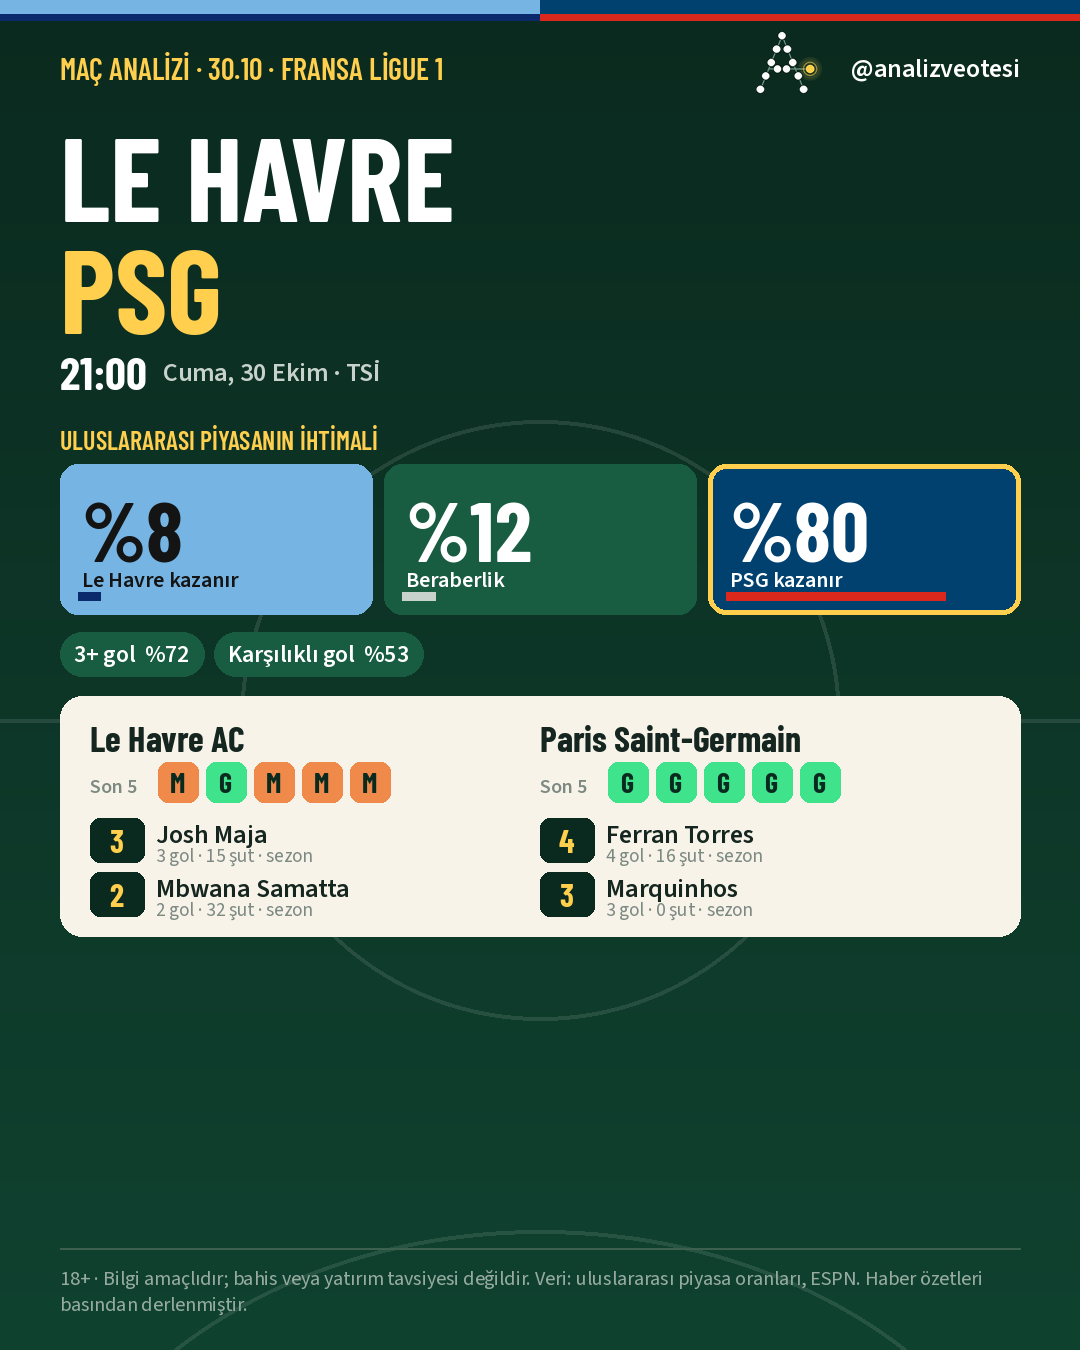
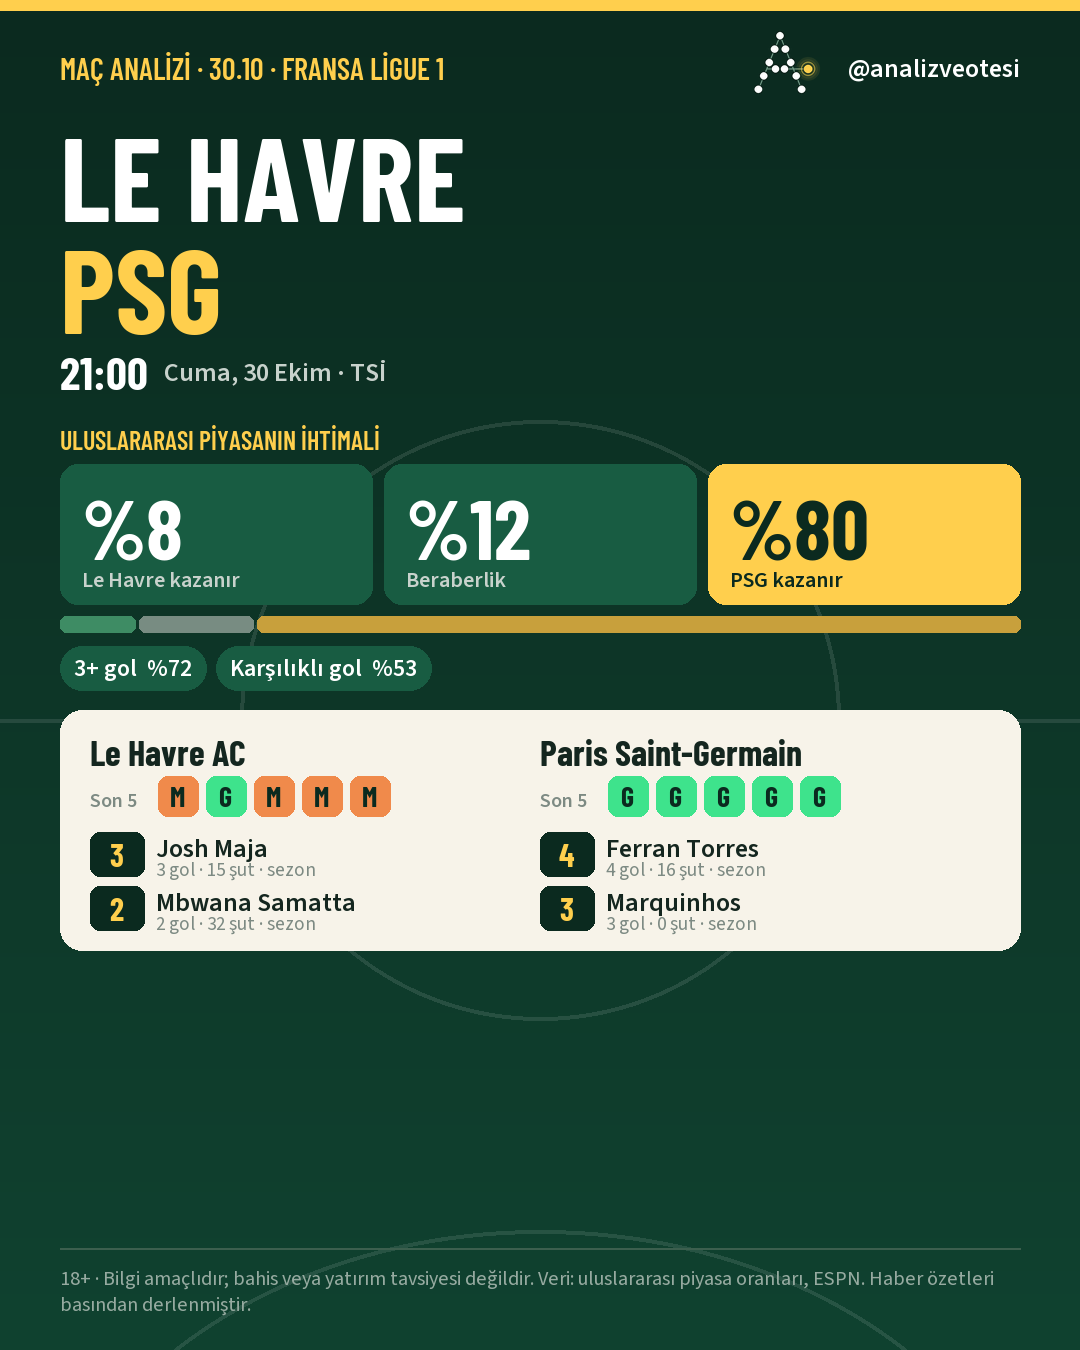
Kartlar: ihtimal kutuları sabit renk (en yüksek sarı) + oranlı şerit; takım renk şeridi kaldırıldı

diff --git a/docs/index.html b/docs/index.html
@@ -219,7 +219,7 @@ details.match summary{grid-template-columns:1fr auto}details.match summary time{
 
 <section class="board">
   <h1 class="verdict">Şu an oynanacak<br><em>fırsat yok.</em></h1>
-  <ul class="pills"><li><span class="pulse"></span>Nesine <b>0 dk önce</b> kontrol edildi</li><li>Dünya piyasası <b>3 saat önce</b> · gözcü açılınca tazelenir</li><li class="shadow">Gölge test · para oynanmıyor, her fırsat puanlanıyor</li></ul>
+  <ul class="pills"><li><span class="pulse"></span>Nesine <b>7 dk önce</b> kontrol edildi</li><li>Dünya piyasası <b>3 saat önce</b> · gözcü açılınca tazelenir</li><li class="shadow">Gölge test · para oynanmıyor, her fırsat puanlanıyor</li></ul>
   
 <ul class="facts">
   <li><div class="n">57</div><div class="l">yaklaşan maç takipte</div></li>
@@ -246,7 +246,7 @@ details.match summary{grid-template-columns:1fr auto}details.match summary time{
 <div class="empty"><b>Hiçbir maçta Nesine, dünya piyasasından yüksek oran vermiyor.</b> Bu normaldir; fırsat haber çıkıp dünya piyasası hareket ettiğinde, Nesine geç kaldığında doğar. En yakını <b>Barcelona – Alaves</b>, kg yok · en az bir takım gol atamaz: Nesine 1.70 veriyor, adil oran 1.76; yani hâlâ %3.2 geride.</div>
 <h3>Eşiğe en yakın bahisler</h3>
 <p class="lead">Çubuk ne kadar sağdaysa Nesine o kadar cömert; koyu çizgi +%3 eşiği. Çoğunun solda kalması Nesine'nin normal hâlidir.</p>
-<div class="card"><ul class="list"><li class="row "><div class="m"><div class="t">Barcelona – Alaves</div><div class="d">KG Yok · en az bir takım gol atamaz · Nesine <code>1.70</code> · adil <code>1.76</code></div></div><div class="meter near"><div class="bar" style="--w:65.9%"></div><div class="tick"></div></div><div class="v">-3.2%</div></li><li class="row "><div class="m"><div class="t">Bayern Münih – B. Dortmund</div><div class="d">MS X · beraberlik · Nesine <code>5.54</code> · adil <code>6.01</code></div></div><div class="meter "><div class="bar" style="--w:52.2%"></div><div class="tick"></div></div><div class="v">-7.8%</div></li><li class="row "><div class="m"><div class="t">Konyaspor – Galatasaray</div><div class="d">MS 1 · ev sahibi kazanır · Nesine <code>4.78</code> · adil <code>5.22</code></div></div><div class="meter "><div class="bar" style="--w:50.2%"></div><div class="tick"></div></div><div class="v">-8.4%</div></li><li class="row "><div class="m"><div class="t">Santander – Real Madrid</div><div class="d">KG Yok · en az bir takım gol atamaz · Nesine <code>2.20</code> · adil <code>2.43</code></div></div><div class="meter "><div class="bar" style="--w:47.5%"></div><div class="tick"></div></div><div class="v">-9.3%</div></li><li class="row "><div class="m"><div class="t">Levante – Atl Madrid</div><div class="d">MS 1 · ev sahibi kazanır · Nesine <code>4.70</code> · adil <code>5.21</code></div></div><div class="meter "><div class="bar" style="--w:46.3%"></div><div class="tick"></div></div><div class="v">-9.7%</div></li><li class="row "><div class="m"><div class="t">Lille – RC Lens</div><div class="d">2.5 Üst · 3 veya daha fazla gol · Nesine <code>1.59</code> · adil <code>1.77</code></div></div><div class="meter "><div class="bar" style="--w:45.7%"></div><div class="tick"></div></div><div class="v">-9.9%</div></li><li class="row "><div class="m"><div class="t">Schalke 04 – Leipzig</div><div class="d">MS X · beraberlik · Nesine <code>3.53</code> · adil <code>3.93</code></div></div><div class="meter "><div class="bar" style="--w:45.2%"></div><div class="tick"></div></div><div class="v">-10.1%</div></li><li class="row "><div class="m"><div class="t">Vallecano – Celta Vigo</div><div class="d">KG Yok · en az bir takım gol atamaz · Nesine <code>1.72</code> · adil <code>1.93</code></div></div><div class="meter "><div class="bar" style="--w:42.2%"></div><div class="tick"></div></div><div class="v">-11.1%</div></li><li class="row "><div class="m"><div class="t">Elche – Valencia</div><div class="d">KG Yok · en az bir takım gol atamaz · Nesine <code>1.85</code> · adil <code>2.09</code></div></div><div class="meter "><div class="bar" style="--w:41.6%"></div><div class="tick"></div></div><div class="v">-11.3%</div></li><li class="row "><div class="m"><div class="t">Juventus – Napoli</div><div class="d">KG Yok · en az bir takım gol atamaz · Nesine <code>1.84</code> · adil <code>2.07</code></div></div><div class="meter "><div class="bar" style="--w:41.5%"></div><div class="tick"></div></div><div class="v">-11.3%</div></li><li class="row "><div class="m"><div class="t">Trabzonspor – Gaziantep FK</div><div class="d">MS 1 · ev sahibi kazanır · Nesine <code>1.21</code> · adil <code>1.37</code></div></div><div class="meter "><div class="bar" style="--w:40.4%"></div><div class="tick"></div></div><div class="v">-11.7%</div></li><li class="row "><div class="m"><div class="t">Le Havre – PSG</div><div class="d">MS 2 · deplasman kazanır · Nesine <code>1.11</code> · adil <code>1.26</code></div></div><div class="meter "><div class="bar" style="--w:40.2%"></div><div class="tick"></div></div><div class="v">-11.8%</div></li></ul>
+<div class="card"><ul class="list"><li class="row "><div class="m"><div class="t">Barcelona – Alaves</div><div class="d">KG Yok · en az bir takım gol atamaz · Nesine <code>1.70</code> · adil <code>1.76</code></div></div><div class="meter near"><div class="bar" style="--w:65.9%"></div><div class="tick"></div></div><div class="v">-3.2%</div></li><li class="row "><div class="m"><div class="t">Bayern Münih – B. Dortmund</div><div class="d">MS X · beraberlik · Nesine <code>5.54</code> · adil <code>6.01</code></div></div><div class="meter "><div class="bar" style="--w:52.2%"></div><div class="tick"></div></div><div class="v">-7.8%</div></li><li class="row "><div class="m"><div class="t">Konyaspor – Galatasaray</div><div class="d">MS 1 · ev sahibi kazanır · Nesine <code>4.78</code> · adil <code>5.22</code></div></div><div class="meter "><div class="bar" style="--w:50.2%"></div><div class="tick"></div></div><div class="v">-8.4%</div></li><li class="row "><div class="m"><div class="t">Levante – Atl Madrid</div><div class="d">MS 1 · ev sahibi kazanır · Nesine <code>4.70</code> · adil <code>5.21</code></div></div><div class="meter "><div class="bar" style="--w:46.3%"></div><div class="tick"></div></div><div class="v">-9.7%</div></li><li class="row "><div class="m"><div class="t">Santander – Real Madrid</div><div class="d">KG Yok · en az bir takım gol atamaz · Nesine <code>2.19</code> · adil <code>2.43</code></div></div><div class="meter "><div class="bar" style="--w:46.3%"></div><div class="tick"></div></div><div class="v">-9.7%</div></li><li class="row "><div class="m"><div class="t">Lille – RC Lens</div><div class="d">2.5 Üst · 3 veya daha fazla gol · Nesine <code>1.59</code> · adil <code>1.77</code></div></div><div class="meter "><div class="bar" style="--w:45.7%"></div><div class="tick"></div></div><div class="v">-9.9%</div></li><li class="row "><div class="m"><div class="t">Schalke 04 – Leipzig</div><div class="d">MS X · beraberlik · Nesine <code>3.53</code> · adil <code>3.93</code></div></div><div class="meter "><div class="bar" style="--w:45.2%"></div><div class="tick"></div></div><div class="v">-10.1%</div></li><li class="row "><div class="m"><div class="t">Vallecano – Celta Vigo</div><div class="d">KG Yok · en az bir takım gol atamaz · Nesine <code>1.72</code> · adil <code>1.93</code></div></div><div class="meter "><div class="bar" style="--w:42.2%"></div><div class="tick"></div></div><div class="v">-11.1%</div></li><li class="row "><div class="m"><div class="t">Elche – Valencia</div><div class="d">KG Yok · en az bir takım gol atamaz · Nesine <code>1.85</code> · adil <code>2.09</code></div></div><div class="meter "><div class="bar" style="--w:41.6%"></div><div class="tick"></div></div><div class="v">-11.3%</div></li><li class="row "><div class="m"><div class="t">Juventus – Napoli</div><div class="d">KG Yok · en az bir takım gol atamaz · Nesine <code>1.84</code> · adil <code>2.07</code></div></div><div class="meter "><div class="bar" style="--w:41.5%"></div><div class="tick"></div></div><div class="v">-11.3%</div></li><li class="row "><div class="m"><div class="t">Trabzonspor – Gaziantep FK</div><div class="d">MS 1 · ev sahibi kazanır · Nesine <code>1.21</code> · adil <code>1.37</code></div></div><div class="meter "><div class="bar" style="--w:40.4%"></div><div class="tick"></div></div><div class="v">-11.7%</div></li><li class="row "><div class="m"><div class="t">Le Havre – PSG</div><div class="d">MS 2 · deplasman kazanır · Nesine <code>1.11</code> · adil <code>1.26</code></div></div><div class="meter "><div class="bar" style="--w:40.2%"></div><div class="tick"></div></div><div class="v">-11.8%</div></li></ul>
 <div class="legend"><span><i style="background:#A9B5AE"></i>geride</span><span><i style="background:var(--sodium)"></i>yaklaşıyor (−%5 içinde)</span><span><i style="background:var(--signal)"></i>eşiği geçti</span></div></div>
 </section>
 
@@ -554,8 +554,8 @@ details.match summary{grid-template-columns:1fr auto}details.match summary time{
 
 <section class="panel" id="p-hareket">
 <h2>İddaa oranları hareket ediyor mu?</h2>
-<p class="lead"><b>97 kontrolde 1424 oran değişimi</b> gördük (740 yükseliş, 684 düşüş). Oranlar hareket ediyor; sorumuz, dünya piyasasından ne kadar <b>geç</b> hareket ettiği. Yeşil ▲ oran yükseldi, turuncu ▼ düştü; "maça kalan" değişimin maçtan ne kadar önce olduğunu gösterir.</p>
-<div class="card"><ul class="changes"><li><time>30.10 02:12</time><div>Santander – Real Madrid <small>· ms 1 · ev sahibi kazanır · maça 64 sa 2 dk kala</small></div><div class="o down">9.54 ▼ 9.37</div></li><li><time>30.10 02:12</time><div>Santander – Real Madrid <small>· ms x · beraberlik · maça 64 sa 2 dk kala</small></div><div class="o down">6.97 ▼ 6.92</div></li><li><time>30.10 02:12</time><div>Santander – Real Madrid <small>· kg var · iki takım da gol atar · maça 64 sa 2 dk kala</small></div><div class="o down">1.37 ▼ 1.36</div></li><li><time>30.10 02:12</time><div>Santander – Real Madrid <small>· kg yok · en az bir takım gol atamaz · maça 64 sa 2 dk kala</small></div><div class="o up">2.19 ▲ 2.20</div></li><li><time>30.10 02:05</time><div>Bayern Münih – B. Dortmund <small>· ms 2 · deplasman kazanır · maça 42 sa 24 dk kala</small></div><div class="o up">6.46 ▲ 6.52</div></li><li><time>30.10 02:05</time><div>Bayern Münih – B. Dortmund <small>· kg var · iki takım da gol atar · maça 42 sa 24 dk kala</small></div><div class="o up">1.30 ▲ 1.31</div></li><li><time>30.10 02:05</time><div>Bayern Münih – B. Dortmund <small>· kg yok · en az bir takım gol atamaz · maça 42 sa 24 dk kala</small></div><div class="o down">2.38 ▼ 2.37</div></li><li><time>30.10 02:05</time><div>Santander – Real Madrid <small>· ms 1 · ev sahibi kazanır · maça 64 sa 9 dk kala</small></div><div class="o up">9.28 ▲ 9.54</div></li><li><time>30.10 02:05</time><div>Santander – Real Madrid <small>· ms x · beraberlik · maça 64 sa 9 dk kala</small></div><div class="o up">6.89 ▲ 6.97</div></li><li><time>30.10 02:05</time><div>Santander – Real Madrid <small>· kg var · iki takım da gol atar · maça 64 sa 9 dk kala</small></div><div class="o up">1.36 ▲ 1.37</div></li><li><time>30.10 02:05</time><div>Santander – Real Madrid <small>· kg yok · en az bir takım gol atamaz · maça 64 sa 9 dk kala</small></div><div class="o down">2.21 ▼ 2.19</div></li><li><time>30.10 02:04</time><div>Le Havre – PSG <small>· ms 1 · ev sahibi kazanır · maça 18 sa 55 dk kala</small></div><div class="o up">8.25 ▲ 8.65</div></li><li><time>30.10 02:04</time><div>Le Havre – PSG <small>· ms x · beraberlik · maça 18 sa 55 dk kala</small></div><div class="o up">5.82 ▲ 5.95</div></li><li><time>30.10 02:04</time><div>Le Havre – PSG <small>· ms 2 · deplasman kazanır · maça 18 sa 55 dk kala</small></div><div class="o down">1.12 ▼ 1.11</div></li><li><time>30.10 02:04</time><div>Le Havre – PSG <small>· kg var · iki takım da gol atar · maça 18 sa 55 dk kala</small></div><div class="o up">1.51 ▲ 1.54</div></li><li><time>30.10 02:04</time><div>Le Havre – PSG <small>· kg yok · en az bir takım gol atamaz · maça 18 sa 55 dk kala</small></div><div class="o down">1.90 ▼ 1.87</div></li><li><time>30.10 02:04</time><div>Lille – RC Lens <small>· kg var · iki takım da gol atar · maça 21 sa 0 dk kala</small></div><div class="o up">1.46 ▲ 1.47</div></li><li><time>30.10 02:04</time><div>Lille – RC Lens <small>· kg yok · en az bir takım gol atamaz · maça 21 sa 0 dk kala</small></div><div class="o down">2.00 ▼ 1.99</div></li><li><time>30.10 02:04</time><div>Lille – RC Lens <small>· 2.5 üst · 3 veya daha fazla gol · maça 21 sa 0 dk kala</small></div><div class="o up">1.58 ▲ 1.59</div></li><li><time>30.10 01:44</time><div>Le Havre – PSG <small>· ms 1 · ev sahibi kazanır · maça 19 sa 15 dk kala</small></div><div class="o down">8.49 ▼ 8.25</div></li></ul></div>
+<p class="lead"><b>96 kontrolde 1420 oran değişimi</b> gördük (739 yükseliş, 681 düşüş). Oranlar hareket ediyor; sorumuz, dünya piyasasından ne kadar <b>geç</b> hareket ettiği. Yeşil ▲ oran yükseldi, turuncu ▼ düştü; "maça kalan" değişimin maçtan ne kadar önce olduğunu gösterir.</p>
+<div class="card"><ul class="changes"><li><time>30.10 02:05</time><div>Bayern Münih – B. Dortmund <small>· ms 2 · deplasman kazanır · maça 42 sa 24 dk kala</small></div><div class="o up">6.46 ▲ 6.52</div></li><li><time>30.10 02:05</time><div>Bayern Münih – B. Dortmund <small>· kg var · iki takım da gol atar · maça 42 sa 24 dk kala</small></div><div class="o up">1.30 ▲ 1.31</div></li><li><time>30.10 02:05</time><div>Bayern Münih – B. Dortmund <small>· kg yok · en az bir takım gol atamaz · maça 42 sa 24 dk kala</small></div><div class="o down">2.38 ▼ 2.37</div></li><li><time>30.10 02:05</time><div>Santander – Real Madrid <small>· ms 1 · ev sahibi kazanır · maça 64 sa 9 dk kala</small></div><div class="o up">9.28 ▲ 9.54</div></li><li><time>30.10 02:05</time><div>Santander – Real Madrid <small>· ms x · beraberlik · maça 64 sa 9 dk kala</small></div><div class="o up">6.89 ▲ 6.97</div></li><li><time>30.10 02:05</time><div>Santander – Real Madrid <small>· kg var · iki takım da gol atar · maça 64 sa 9 dk kala</small></div><div class="o up">1.36 ▲ 1.37</div></li><li><time>30.10 02:05</time><div>Santander – Real Madrid <small>· kg yok · en az bir takım gol atamaz · maça 64 sa 9 dk kala</small></div><div class="o down">2.21 ▼ 2.19</div></li><li><time>30.10 02:04</time><div>Le Havre – PSG <small>· ms 1 · ev sahibi kazanır · maça 18 sa 55 dk kala</small></div><div class="o up">8.25 ▲ 8.65</div></li><li><time>30.10 02:04</time><div>Le Havre – PSG <small>· ms x · beraberlik · maça 18 sa 55 dk kala</small></div><div class="o up">5.82 ▲ 5.95</div></li><li><time>30.10 02:04</time><div>Le Havre – PSG <small>· ms 2 · deplasman kazanır · maça 18 sa 55 dk kala</small></div><div class="o down">1.12 ▼ 1.11</div></li><li><time>30.10 02:04</time><div>Le Havre – PSG <small>· kg var · iki takım da gol atar · maça 18 sa 55 dk kala</small></div><div class="o up">1.51 ▲ 1.54</div></li><li><time>30.10 02:04</time><div>Le Havre – PSG <small>· kg yok · en az bir takım gol atamaz · maça 18 sa 55 dk kala</small></div><div class="o down">1.90 ▼ 1.87</div></li><li><time>30.10 02:04</time><div>Lille – RC Lens <small>· kg var · iki takım da gol atar · maça 21 sa 0 dk kala</small></div><div class="o up">1.46 ▲ 1.47</div></li><li><time>30.10 02:04</time><div>Lille – RC Lens <small>· kg yok · en az bir takım gol atamaz · maça 21 sa 0 dk kala</small></div><div class="o down">2.00 ▼ 1.99</div></li><li><time>30.10 02:04</time><div>Lille – RC Lens <small>· 2.5 üst · 3 veya daha fazla gol · maça 21 sa 0 dk kala</small></div><div class="o up">1.58 ▲ 1.59</div></li><li><time>30.10 01:44</time><div>Le Havre – PSG <small>· ms 1 · ev sahibi kazanır · maça 19 sa 15 dk kala</small></div><div class="o down">8.49 ▼ 8.25</div></li><li><time>30.10 01:44</time><div>Le Havre – PSG <small>· ms x · beraberlik · maça 19 sa 15 dk kala</small></div><div class="o down">5.92 ▼ 5.82</div></li><li><time>30.10 01:44</time><div>Le Havre – PSG <small>· ms 2 · deplasman kazanır · maça 19 sa 15 dk kala</small></div><div class="o up">1.11 ▲ 1.12</div></li><li><time>30.10 01:44</time><div>Le Havre – PSG <small>· kg var · iki takım da gol atar · maça 19 sa 15 dk kala</small></div><div class="o down">1.53 ▼ 1.51</div></li><li><time>30.10 01:44</time><div>Le Havre – PSG <small>· kg yok · en az bir takım gol atamaz · maça 19 sa 15 dk kala</small></div><div class="o up">1.88 ▲ 1.90</div></li></ul></div>
 </section>
 
 <section class="panel" id="p-paylasim">

diff --git a/social.py b/social.py
@@ -205,9 +205,7 @@ def badge(img, d, cx, cy, r, name, er=None):
 def match_card(m, pm, ai, er, out_path):
     img = pitch_background(); d = ImageDraw.Draw(img)
     start = m["start"].astimezone(TR)
-    hc1, hc2, _ = team_style(m["home"], er); ac1, ac2, _ = team_style(m["away"], er)
-    d.rectangle((0, 0, W // 2, 14), fill=hc1); d.rectangle((W // 2, 0, W, 14), fill=ac1)
-    d.rectangle((0, 14, W // 2, 20), fill=hc2); d.rectangle((W // 2, 14, W, 20), fill=ac2)
+    d.rectangle((0, 0, W, 10), fill=YELLOW)
     topbar(d, f"Maç analizi · {start:%d.%m} · {m['league']}")
     fh = font("display", 118)
     home, away = tr_upper(m["home"]), tr_upper(m["away"])
@@ -223,20 +221,24 @@ def match_card(m, pm, ai, er, out_path):
     y += 80
     if pm and "MS" in pm:
         text(d, (60, y), "ULUSLARARASI PİYASANIN İHTİMALİ", font("displaysemi", 26), YELLOW); y += 40
-        hc1, hc2, _ = team_style(m["home"], er); ac1, ac2, _ = team_style(m["away"], er)
-        def lum(c): return 0.299 * c[0] + 0.587 * c[1] + 0.114 * c[2]
-        cols = [(f"{m['home']} kazanır", pm["MS"]["1"], hc1, hc2), ("Beraberlik", pm["MS"]["X"], GREEN3, PALE), (f"{m['away']} kazanır", pm["MS"]["2"], ac1, ac2)]
-        best = max(p for _, p, _, _ in cols)
+        cols = [(f"{m['home']} kazanır", pm["MS"]["1"]), ("Beraberlik", pm["MS"]["X"]), (f"{m['away']} kazanır", pm["MS"]["2"])]
+        best = max(p for _, p in cols)
         bw = (W - 120 - 24) / 3
-        for i, (lab, p, c1, c2) in enumerate(cols):
+        for i, (lab, p) in enumerate(cols):
             x = 60 + i * (bw + 12); top = p == best
-            fill = c1
-            fg = (20, 20, 20) if lum(fill) > 150 else WHITE
-            d.rounded_rectangle((x, y, x + bw, y + 150), radius=18, fill=fill, outline=YELLOW if top else None, width=5 if top else 0)
-            d.rectangle((x + 18, y + 128, x + 18 + int((bw - 36) * p), y + 136), fill=c2 if lum(c2) != lum(fill) else fg)
-            d.text((x + 22, y + 14), f"%{p*100:.0f}", font=font("display", 84), fill=fg)
-            d.text((x + 22, y + 100), fit(lab, font("semi", 22), bw - 44), font=font("semi", 22), fill=fg)
-        y += 168
+            d.rounded_rectangle((x, y, x + bw, y + 140), radius=18, fill=YELLOW if top else GREEN3)
+            d.text((x + 22, y + 12), f"%{p*100:.0f}", font=font("display", 84), fill=GREEN if top else WHITE)
+            d.text((x + 22, y + 100), fit(lab, font("semi", 22), bw - 44), font=font("semi", 22), fill=GREEN if top else PALE)
+        y += 152
+        # oranlı şerit: ev | beraberlik | deplasman
+        x0, x1 = 60, W - 60; tot = x1 - x0
+        segs = [(pm["MS"]["1"], (62, 140, 100)), (pm["MS"]["X"], (120, 140, 130)), (pm["MS"]["2"], (200, 160, 60))]
+        xx = x0
+        for i, (p, c) in enumerate(segs):
+            w = tot * p
+            d.rounded_rectangle((xx, y, xx + w - (4 if i < 2 else 0), y + 16), radius=6, fill=c)
+            xx += w
+        y += 30
         if "AU25" in pm and "KG" in pm:
             x = pill(d, 60, y, f"3+ gol  %{pm['AU25']['Üst']*100:.0f}", font("semi", 24), GREEN3, WHITE)
             pill(d, x, y, f"Karşılıklı gol  %{pm['KG']['Var']*100:.0f}", font("semi", 24), GREEN3, WHITE)
